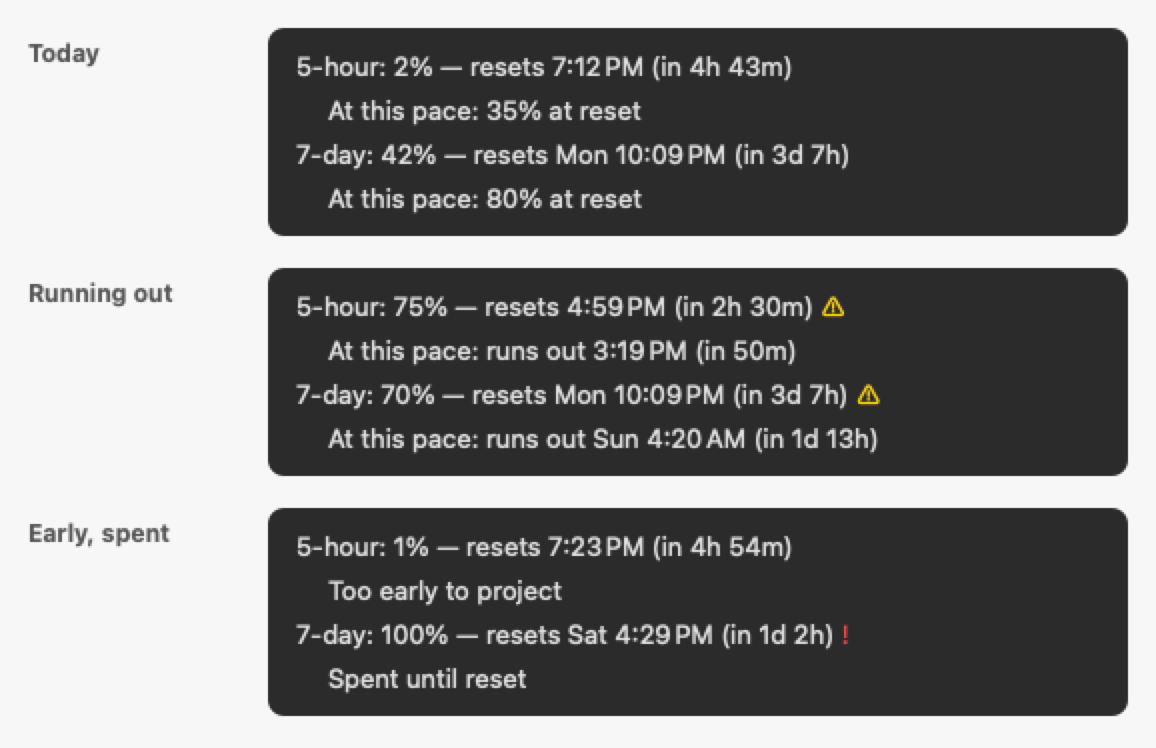
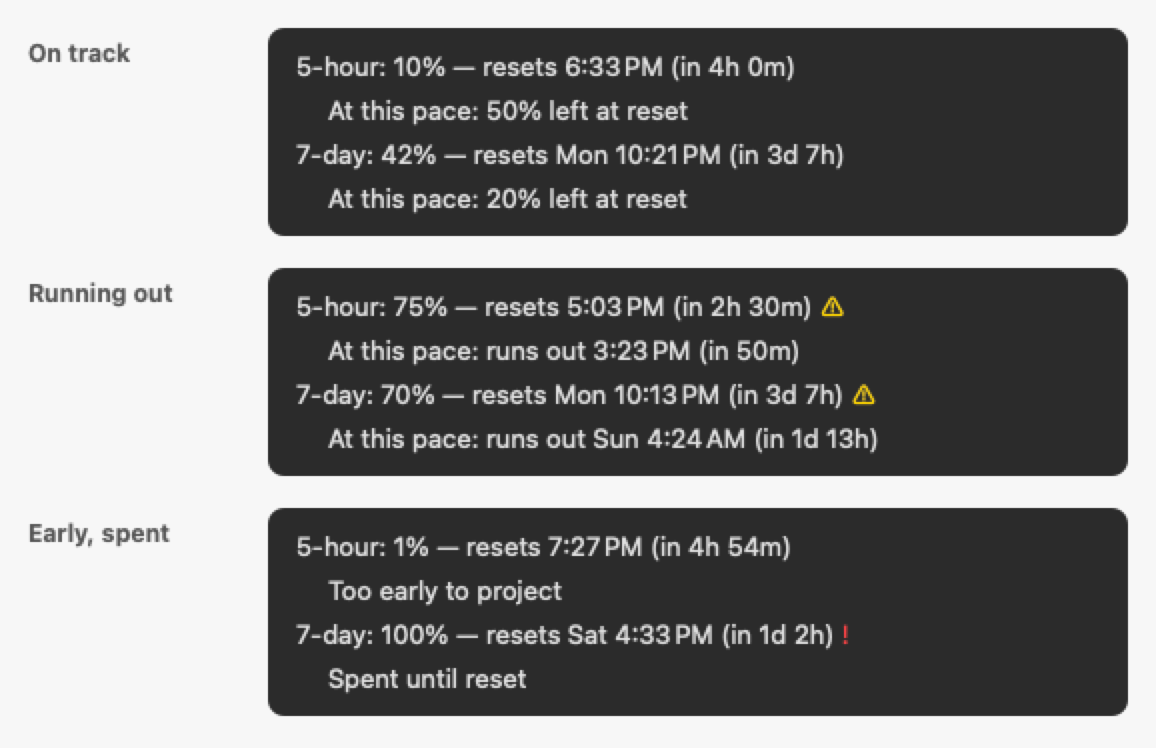
feat(ClaudeUsageBar): forecast shows margin left at reset
Amit: "At this pace: <margin in remaining pct>" — the forecast now reads
`20% left at reset`, matching the title's percent-left convention.
Pre-flight nits: a stale snapshot past its reset says `Resetting now`
even when it was spent; tests cover that and the window-length clamp.

diff --git a/ClaudeUsageBar/Tests/ClaudeUsageBarTests/ForecastTests.swift b/ClaudeUsageBar/Tests/ClaudeUsageBarTests/ForecastTests.swift
@@ -45,6 +45,11 @@ final class ForecastTests: XCTestCase {
         XCTAssertNil(forecast(used: 40, secondsLeft: 0))
     }
 
+    /// A reset further out than the window length clamps to a full window.
+    func testResetBeyondWindowLengthIsTooEarly() {
+        XCTAssertEqual(forecast(used: 30, secondsLeft: 1.2 * length), .tooEarly)
+    }
+
     // MARK: - row text
 
     private func text(used: Double, secondsLeft: TimeInterval, length: TimeInterval? = nil) -> String {
@@ -52,14 +57,20 @@ final class ForecastTests: XCTestCase {
     }
 
     func testTextOnTrack() {
-        XCTAssertEqual(text(used: 25, secondsLeft: 9000), "At this pace: 50% at reset")
+        XCTAssertEqual(text(used: 25, secondsLeft: 9000), "At this pace: 50% left at reset")
     }
 
     func testTextRunsOutNamesOnlyTheTime() {
         let row = text(used: 75, secondsLeft: 9000)
         XCTAssertTrue(row.hasPrefix("At this pace: runs out "), row)
         XCTAssertTrue(row.hasSuffix("(in 50m)"), row)
-        XCTAssertFalse(row.contains("% at reset"), row)
+        XCTAssertFalse(row.contains("left at reset"), row)
+    }
+
+    /// Margin, not use: 80% used at reset reads as 20% left. 7-day, 42% used
+    /// with 3.675 of 7 days gone projects 80%.
+    func testTextShowsMarginLeftAtReset() {
+        XCTAssertEqual(text(used: 42, secondsLeft: 3.325 * 86400, length: PaceAlert.sevenDayLength), "At this pace: 20% left at reset")
     }
 
     func testTextTooEarly() {
@@ -70,7 +81,13 @@ final class ForecastTests: XCTestCase {
         XCTAssertEqual(text(used: 100, secondsLeft: 9000), "Spent until reset")
     }
 
+    /// A stale snapshot past its reset says so, even if it was spent.
+    func testTextPastResetSaysResetting() {
+        XCTAssertEqual(text(used: 100, secondsLeft: -60), "Resetting now")
+        XCTAssertEqual(text(used: 40, secondsLeft: 0), "Resetting now")
+    }
+
     func testSevenDayWindow() {
-        XCTAssertEqual(text(used: 25, secondsLeft: 3.5 * 86400, length: PaceAlert.sevenDayLength), "At this pace: 50% at reset")
+        XCTAssertEqual(text(used: 25, secondsLeft: 3.5 * 86400, length: PaceAlert.sevenDayLength), "At this pace: 50% left at reset")
     }
 }

diff --git a/ClaudeUsageBar/Sources/ClaudeUsageBar/UsageText.swift b/ClaudeUsageBar/Sources/ClaudeUsageBar/UsageText.swift
@@ -54,9 +54,10 @@ enum UsageText {
         return result
     }
 
-    /// Second line under a window row: where the window ends up at the average
-    /// rate so far — `At this pace: 36% at reset`, or, when 100% comes before
-    /// the reset, only when it runs out.
+    /// Second line under a window row: the margin left at reset at the average
+    /// rate so far — `At this pace: 64% left at reset`, matching the title's
+    /// percent-left convention — or, when 100% comes before the reset, only
+    /// when it runs out.
     static func forecastRow(
         window: UsageWindow, length: TimeInterval,
         font: NSFont = .menuFont(ofSize: 0), now: Date = Date()
@@ -66,10 +67,10 @@ enum UsageText {
 
     static func forecastText(window: UsageWindow, length: TimeInterval, now: Date = Date()) -> String {
         switch Forecast.make(window, length: length, now: now) {
-        case .atReset(let used): return "At this pace: \(Int(used.rounded()))% at reset"
+        case .atReset(let used): return "At this pace: \(100 - Int(used.rounded()))% left at reset"
         case .runsOut(let date): return "At this pace: runs out \(ResetFormatter.description(for: date, now: now))"
         case .tooEarly: return "Too early to project"
-        case nil: return window.utilization.rounded() >= 100 ? "Spent until reset" : "Resetting now"
+        case nil: return window.resetsAt <= now ? "Resetting now" : "Spent until reset"
         }
     }
 

diff --git a/ClaudeUsageBar/README.md b/ClaudeUsageBar/README.md
@@ -62,11 +62,13 @@ can be launched from Finder/Spotlight/login items like a normal app.
   32.5% used, with 10% left above 92.5%. The rule runs on the displayed
   (rounded) percent, and a window past its reset gets no icon. Logic and table:
   `PaceAlert.swift`. `⚠` means pace only; a failed refresh uses `↻` (below).
-- **Forecast**: under each dropdown row, an indented line projects the window
-  at its average rate so far — `At this pace: 80% at reset`, or, when 100%
+- **Forecast**: under each dropdown row, an indented line projects the margin
+  left at reset at the window's average rate so far — `At this pace: 20% left
+  at reset` (percent left, like the title), or, when 100%
   lands before the reset, only when it runs out:
-  `At this pace: runs out Sun 4:20 AM (in 1d 13h)`. The first 5% of a window
-  shows `Too early to project`; a spent window shows `Spent until reset`.
+  `At this pace: runs out Sun 4:24 AM (in 1d 13h)`. The first 5% of a window
+  shows `Too early to project`; a spent window shows `Spent until reset`; a
+  stale snapshot past its reset shows `Resetting now`.
   Logic: `Forecast.swift`.
 - **Dropdown contrast**: info rows stay enabled (`autoenablesItems = false`) so
   they render at full contrast; AppKit greys out disabled rows. A click on one
